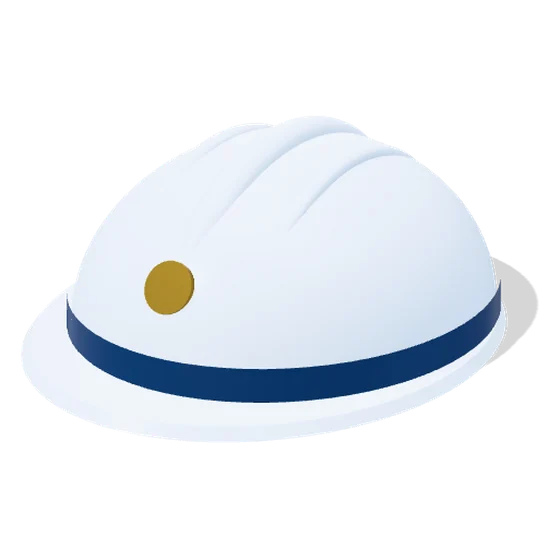
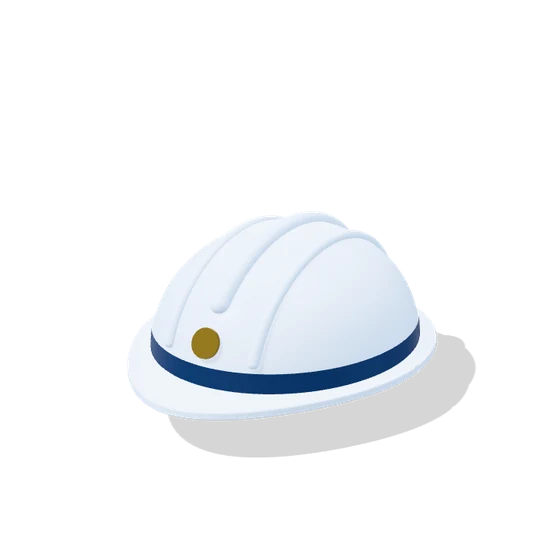
fix: каска без пересечений, строп и карабин отдельно

diff --git a/js/tools3d.js b/js/tools3d.js
@@ -81,24 +81,49 @@ const tube = (T, pts, r, closed = false, segs = 64) =>
 
 /* ---------- модели ---------- */
 function helmet(T, M) {
+  // Все части оболочки лежат в одной группе с общим растяжением —
+  // поэтому рёбра и полоса точно повторяют купол и не «проваливаются» в него.
   const g = new T.Group();
-  const S = [1, 0.86, 1.14];
-  g.add(mesh(T, new T.SphereGeometry(1, 64, 32, 0, Math.PI * 2, 0, Math.PI / 2), M.white, [0, 0, 0], [0, 0, 0], S));
-  // гребни
-  for (const [x, r] of [[0, 0.085], [-0.34, 0.045], [0.34, 0.045]]) {
+  const SX = 1, SY = 0.9, SZ = 1.14;
+  const shell = new T.Group(); shell.scale.set(SX, SY, SZ); g.add(shell);
+  const domeMat = M.white.clone(); domeMat.side = T.DoubleSide;
+  shell.add(mesh(T, new T.SphereGeometry(1, 96, 48, 0, Math.PI * 2, 0, Math.PI / 2), domeMat));
+  // рёбра: дуги по поверхности купола (центр трубки на поверхности), с закруглёнными концами
+  const ridge = (x, r, yFront, yBack) => {
     const k = Math.sqrt(1 - x * x);
-    const ridge = mesh(T, new T.TorusGeometry(k, r, 14, 72, Math.PI), M.white, [x, 0, 0], [0, Math.PI / 2, 0], [1, 0.86, 1.14]);
-    g.add(ridge);
+    const a0 = Math.asin(Math.min(0.98, yFront / k)), a1 = Math.PI - Math.asin(Math.min(0.98, yBack / k));
+    const geo = new T.TorusGeometry(k, r, 16, 96, a1 - a0);
+    const m = mesh(T, geo, M.white);
+    const holder = new T.Group(); holder.position.x = x; holder.rotation.y = -Math.PI / 2;
+    m.rotation.z = a0; holder.add(m);
+    for (const a of [a0, a1]) holder.add(mesh(T, new T.SphereGeometry(r, 16, 12), M.white, [Math.cos(a) * k, Math.sin(a) * k, 0]));
+    shell.add(holder);
+  };
+  ridge(0, 0.075, 0.62, 0.24);
+  ridge(-0.36, 0.045, 0.26, 0.24);
+  ridge(0.36, 0.045, 0.26, 0.24);
+  // синяя полоса чуть снаружи купола, ниже начала рёбер
+  shell.add(mesh(T, new T.CylinderGeometry(0.994, 1.008, 0.17, 96, 1, true), M.navy, [0, 0.1, 0]));
+  // козырёк: кольцо с выносом вперёд, вырез под купол (без перекрытия поверхностей)
+  const outer = new T.Shape(), hole = new T.Path(), N = 96;
+  for (let i = 0; i <= N; i++) {
+    const t = (i / N) * Math.PI * 2, front = Math.max(0, Math.sin(t));
+    const x = 1.13 * Math.cos(t), z = (1.24 + 0.3 * front * front * front) * Math.sin(t);
+    i ? outer.lineTo(x, z) : outer.moveTo(x, z);
+    const hx = 0.975 * Math.cos(t), hz = 1.11 * Math.sin(t);
+    i ? hole.lineTo(hx, hz) : hole.moveTo(hx, hz);
   }
-  // синяя полоса
-  g.add(mesh(T, new T.CylinderGeometry(1.012, 1.02, 0.17, 72, 1, true), M.navy, [0, 0.085, 0], [0, 0, 0], [1, 1, 1.14]));
-  // козырёк
-  const brim = mesh(T, new T.CylinderGeometry(1.06, 1.1, 0.05, 72), M.white, [0, -0.01, 0.16], [0, 0, 0], [1, 1, 1.2]);
+  outer.holes.push(hole);
+  const brimGeo = new T.ExtrudeGeometry(outer, { depth: 0.035, bevelEnabled: true, bevelThickness: 0.012, bevelSize: 0.012, bevelSegments: 3, curveSegments: 8 });
+  const brim = mesh(T, brimGeo, M.white, [0, 0.01, 0], [Math.PI / 2, 0, 0]);
   g.add(brim);
-  // золотая эмблема спереди
-  const e = mesh(T, new T.CylinderGeometry(0.12, 0.12, 0.03, 40), M.gold);
-  e.position.set(0, 0.43, 0.985);
-  e.lookAt(0, 0.43 + 0.5, 0.985 + 0.87); e.rotateX(Math.PI / 2);
+  // золотая эмблема спереди: на поверхности, по нормали, между рёбрами
+  const phi = 0.36, ux = 0, uy = Math.sin(phi), uz = Math.cos(phi);
+  const pos = new T.Vector3(ux * SX, uy * SY, uz * SZ);
+  const nrm = new T.Vector3(ux / SX, uy / SY, uz / SZ).normalize();
+  const e = mesh(T, new T.CylinderGeometry(0.11, 0.11, 0.026, 40), M.gold);
+  e.position.copy(pos).addScaledVector(nrm, 0.022);
+  e.quaternion.setFromUnitVectors(new T.Vector3(0, 1, 0), nrm);
   g.add(e);
   return g;
 }
@@ -211,13 +236,23 @@ function carabiner(T, M) {
 }
 
 function sling(T, M) {
+  // Каска, рядом плоская бухта страховочного стропа (витки с зазором) и отдельно лежащий карабин.
+  // Все предметы стоят на одном уровне пола (низ козырька ≈ -0.037) и не пересекаются.
   const g = new T.Group();
   g.add(helmet(T, M));
-  const loop = [];
-  for (let i = 0; i < 12; i++) { const a = (i / 12) * Math.PI * 2; loop.push([Math.cos(a) * 1.25, Math.sin(a * 2) * 0.08, Math.sin(a) * 0.55]); }
-  const s = mesh(T, tube(T, loop, 0.065, true, 120), M.ice, [0.35, -0.08, 0.95], [0.1, 0.3, 0]);
-  g.add(s);
-  const c = carabiner(T, M); c.position.set(1.55, 0.05, 1.05); c.rotation.set(0.2, -0.5, -0.4); g.add(c);
+  const FLOOR = -0.037, r = 0.06, R0 = 0.3, turns = 2.25, pitch = 2.25 * r, pts = [];
+  for (let i = 0; i <= 160; i++) {
+    const a = (i / 160) * turns * Math.PI * 2;
+    const R = R0 + (a / (Math.PI * 2)) * pitch;
+    pts.push([Math.cos(a) * R, r, Math.sin(a) * R]);
+  }
+  const coil = mesh(T, tube(T, pts, r, false, 320), M.ice, [1.85, FLOOR, 0.5], [0, 0.6, 0]);
+  for (const p of [pts[0], pts[pts.length - 1]]) coil.add(mesh(T, new T.SphereGeometry(r, 14, 10), M.ice, p));
+  g.add(coil);
+  const c = carabiner(T, M);
+  c.rotation.set(-Math.PI / 2, 0, 0.9);
+  c.position.set(0.35, FLOOR + 0.06, 1.86);
+  g.add(c);
   return g;
 }
 
